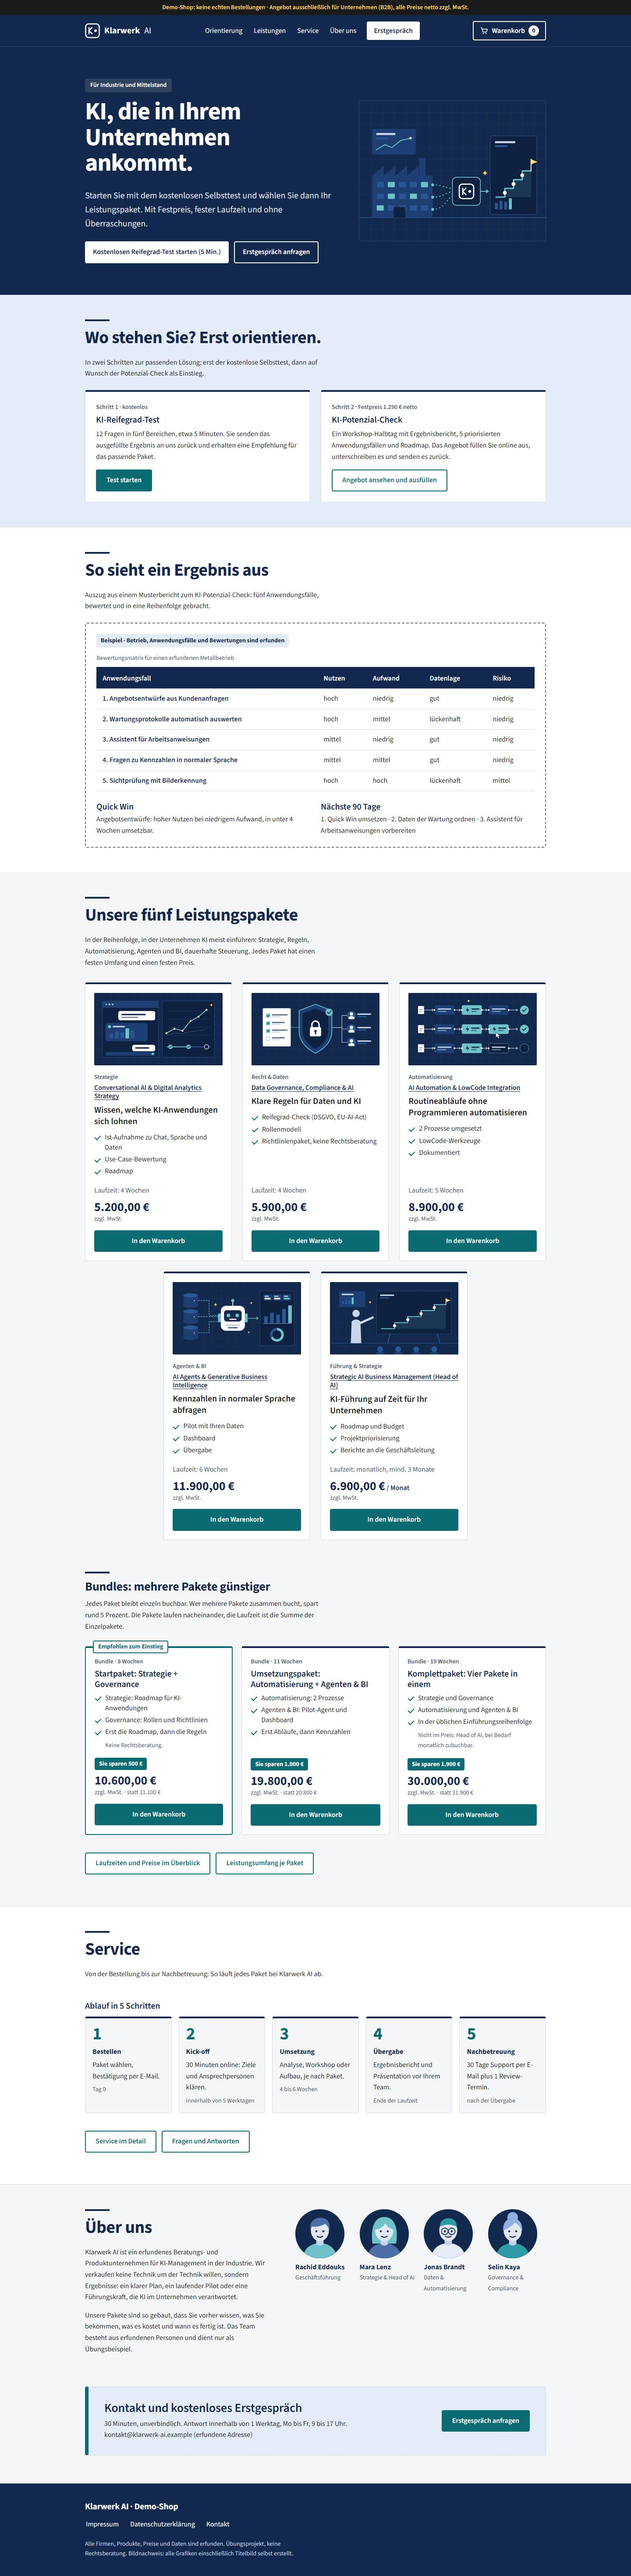
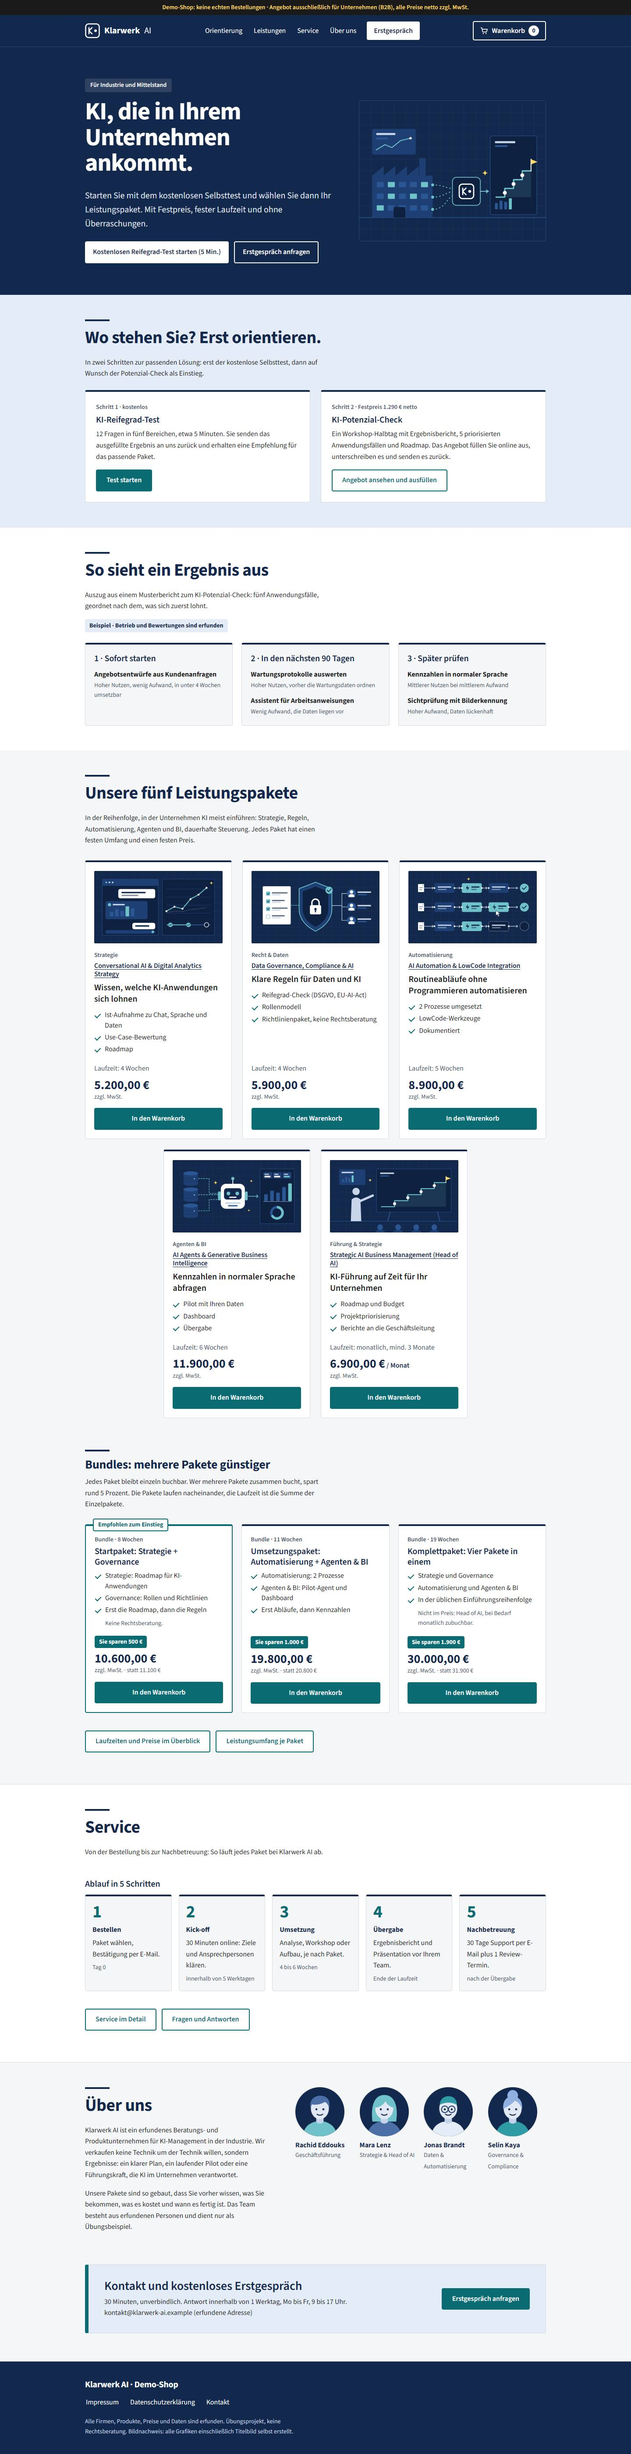
Beispielergebnis als Prioritätenliste statt Tabelle
- Startseite: Bewertungstabelle im gestrichelten Rahmen ersetzt durch
  drei Karten (Sofort starten, In den nächsten 90 Tagen, Später prüfen)
- CSS: .prioritaet neu, .muster und .muster-fazit entfernt
- Designsystem und Entscheidungsprotokoll ergänzt
- vorschau/: Startseiten-Screenshots erneuert

diff --git a/website/index.html b/website/index.html
@@ -79,30 +79,30 @@
     <section class="beispiel" id="beispiel" aria-labelledby="beispiel-titel">
       <div class="wrap">
         <h2 id="beispiel-titel">So sieht ein Ergebnis aus</h2>
-        <p>Auszug aus einem Musterbericht zum KI-Potenzial-Check: fünf Anwendungsfälle, bewertet und in eine Reihenfolge gebracht.</p>
-        <div class="muster">
-          <p class="muster-marke">Beispiel · Betrieb, Anwendungsfälle und Bewertungen sind erfunden</p>
-          <details class="mehr">
-            <summary>Musterbericht anzeigen</summary>
-            <div class="muster-inhalt">
-              <table class="tabelle karten-tabelle" role="table">
-                <caption>Bewertungsmatrix für einen erfundenen Metallbetrieb</caption>
-                <thead role="rowgroup"><tr role="row"><th scope="col" role="columnheader">Anwendungsfall</th><th scope="col" role="columnheader">Nutzen</th><th scope="col" role="columnheader">Aufwand</th><th scope="col" role="columnheader">Datenlage</th><th scope="col" role="columnheader">Risiko</th></tr></thead>
-                <tbody role="rowgroup">
-                <tr role="row"><th scope="row" role="rowheader">1. Angebotsentwürfe aus Kundenanfragen</th><td role="cell" data-label="Nutzen">hoch</td><td role="cell" data-label="Aufwand">niedrig</td><td role="cell" data-label="Datenlage">gut</td><td role="cell" data-label="Risiko">niedrig</td></tr>
-                <tr role="row"><th scope="row" role="rowheader">2. Wartungsprotokolle automatisch auswerten</th><td role="cell" data-label="Nutzen">hoch</td><td role="cell" data-label="Aufwand">mittel</td><td role="cell" data-label="Datenlage">lückenhaft</td><td role="cell" data-label="Risiko">niedrig</td></tr>
-                <tr role="row"><th scope="row" role="rowheader">3. Assistent für Arbeitsanweisungen</th><td role="cell" data-label="Nutzen">mittel</td><td role="cell" data-label="Aufwand">niedrig</td><td role="cell" data-label="Datenlage">gut</td><td role="cell" data-label="Risiko">niedrig</td></tr>
-                <tr role="row"><th scope="row" role="rowheader">4. Fragen zu Kennzahlen in normaler Sprache</th><td role="cell" data-label="Nutzen">mittel</td><td role="cell" data-label="Aufwand">mittel</td><td role="cell" data-label="Datenlage">gut</td><td role="cell" data-label="Risiko">niedrig</td></tr>
-                <tr role="row"><th scope="row" role="rowheader">5. Sichtprüfung mit Bilderkennung</th><td role="cell" data-label="Nutzen">hoch</td><td role="cell" data-label="Aufwand">hoch</td><td role="cell" data-label="Datenlage">lückenhaft</td><td role="cell" data-label="Risiko">mittel</td></tr>
-                </tbody>
-              </table>
-              <div class="muster-fazit">
-                <div><h3>Quick Win</h3><p>Angebotsentwürfe: hoher Nutzen bei niedrigem Aufwand, in unter 4 Wochen umsetzbar.</p></div>
-                <div><h3>Nächste 90 Tage</h3><p>1. Quick Win umsetzen · 2. Daten der Wartung ordnen · 3. Assistent für Arbeitsanweisungen vorbereiten</p></div>
-              </div>
-            </div>
-          </details>
-        </div>
+        <p>Auszug aus einem Musterbericht zum KI-Potenzial-Check: fünf Anwendungsfälle, geordnet nach dem, was sich zuerst lohnt.</p>
+        <p class="muster-marke">Beispiel · Betrieb und Bewertungen sind erfunden</p>
+        <ol class="prioritaet">
+          <li>
+            <h3>Sofort starten</h3>
+            <ul>
+              <li><strong>Angebotsentwürfe aus Kundenanfragen</strong><span>Hoher Nutzen, wenig Aufwand, in unter 4 Wochen umsetzbar</span></li>
+            </ul>
+          </li>
+          <li>
+            <h3>In den nächsten 90 Tagen</h3>
+            <ul>
+              <li><strong>Wartungsprotokolle auswerten</strong><span>Hoher Nutzen, vorher die Wartungsdaten ordnen</span></li>
+              <li><strong>Assistent für Arbeitsanweisungen</strong><span>Wenig Aufwand, die Daten liegen vor</span></li>
+            </ul>
+          </li>
+          <li>
+            <h3>Später prüfen</h3>
+            <ul>
+              <li><strong>Kennzahlen in normaler Sprache</strong><span>Mittlerer Nutzen bei mittlerem Aufwand</span></li>
+              <li><strong>Sichtprüfung mit Bilderkennung</strong><span>Hoher Aufwand, Daten lückenhaft</span></li>
+            </ul>
+          </li>
+        </ol>
       </div>
     </section>
 

diff --git a/website/css/klarwerk.css b/website/css/klarwerk.css
@@ -749,15 +749,19 @@
     .empfehlung { position: absolute; top: -17px; left: 16px; margin: 0; background: var(--weiss); color: var(--aktion); border: 2px solid var(--aktion); border-radius: var(--radius); font-size: 14px; font-weight: 700; line-height: 1.5; padding: 2px 10px; }
     .bundles { margin-top: 32px; }
 
-    /* Punkt 11 · Beispielergebnis */
+    /* Punkt 11 · Beispielergebnis als Prioritätenliste: drei Stufen, nach Reihenfolge geordnet (seit 26.11.2026 statt Tabelle) */
     .beispiel { background: var(--weiss); }
     .beispiel h2::before { content: ""; display: block; width: 56px; height: 4px; background: var(--marke); margin-bottom: 14px; }
-    .muster { border: 2px dashed #6B7685; border-radius: var(--radius); padding: 24px; margin-top: 24px; }
-    .muster-marke { font-size: 14px; font-weight: 700; color: var(--marke); background: #E4ECF7; display: inline-block; padding: 4px 10px; border-radius: var(--radius); }
-    .muster details.mehr { margin: 0; }
-    .muster-fazit { display: grid; grid-template-columns: 1fr 1fr; gap: 24px; margin-top: 24px; }
-    .muster-fazit h3 { font-size: 20px; margin-bottom: 4px; }
-    .muster-fazit p { margin: 0; }
+    .muster-marke { font-size: 14px; font-weight: 700; color: var(--marke); background: #E4ECF7; display: inline-block; padding: 4px 10px; border-radius: var(--radius); margin: 0; }
+    .prioritaet { list-style: none; counter-reset: stufe; margin: 24px 0 0; padding: 0; display: grid; grid-template-columns: repeat(3, minmax(0, 1fr)); gap: 20px; }
+    .prioritaet > li { counter-increment: stufe; background: var(--flaeche); border: 1px solid var(--linie); border-top: 4px solid var(--marke); border-radius: var(--radius); padding: 20px; }
+    .prioritaet h3 { font-size: 20px; margin-bottom: 12px; }
+    .prioritaet h3::before { content: counter(stufe) " · "; }
+    .prioritaet ul { list-style: none; margin: 0; padding: 0; }
+    .prioritaet ul li + li { margin-top: 12px; }
+    .prioritaet strong { display: block; color: var(--text); }
+    .prioritaet span { display: block; font-size: 14px; color: var(--text-leise); }
+    @media (max-width: 860px) { .prioritaet { grid-template-columns: minmax(0, 1fr); gap: 12px; } }
 
     /* Punkt 5 · Tabellen werden am Handy zu Karten */
     @media (max-width: 700px) {
@@ -836,9 +840,6 @@
     }
 
     /* Punkt 4 · Handy: kompakt */
-    @media (max-width: 860px) {
-      .muster-fazit { grid-template-columns: 1fr; gap: 12px; }
-    }
     @media (max-width: 560px) {
       h1, .start h1 { font-size: 40px; }
       .seite-produkt h1, .seitenband h1, .seite-reifegrad h1, .seite-potenzial h1 { font-size: 28px; }
@@ -853,7 +854,8 @@
       .start img { aspect-ratio: 4 / 3; width: 100%; max-width: 280px; margin: 0 auto; }
       .orient-liste { margin-top: 16px; gap: 12px; }
       .orient-liste li { padding: 16px; }
-      .muster { padding: 16px; margin-top: 16px; }
+      .prioritaet { margin-top: 16px; }
+      .prioritaet > li { padding: 16px; }
 
       .produkte .intro { margin-bottom: 16px; }
       .produkte .raster { gap: 12px; }

diff --git a/docs/Entscheidungsprotokoll.md b/docs/Entscheidungsprotokoll.md
@@ -27,3 +27,4 @@
 | Warenkorb | 26.11.2026: localStorage statt sessionStorage („klarwerk-warenkorb“, nur Kennung und Menge, gespeichert erst beim Klick). Preise nur in der Produktliste in js/app.js (Cent), Anzeige mit Intl.NumberFormat. Warenkorb im Kopf wird Link zu warenkorb.html. Zähler = Summe der Mengen, Head of AI zählt als 1 Artikel. Head of AI: Menge = Monate, Start und Minimum 3. Warenkorb-Seite mit −/+, Entfernen, Zwischensumme, 19 % MwSt. (Cent, kaufmännisch gerundet), Gesamtbetrag und „Demo-Bestellung absenden“ (Bestätigung als Seiteninhalt, leert den Warenkorb). data-name an den Schaltflächen entfernt |
 | Fremde Bilder | 26.11.2026: Pixabay-Original und früheres Titelfoto nach `C:\projekte\klarwerk_ai_privat\` verschoben, in `.gitignore` ausgeschlossen; das öffentliche Repository enthält keine fremden Bilder |
 | Design-Überarbeitung | 26.11.2026: 16 Punkte einzeln per Vorher/Nachher-Bild freigegeben: (1) Test am Handy: Fragen zuerst, Fortschritt (2) eine Knopfregel (3) Paketkarten 3 + 2 mit Nutzenzeile (4) kompakte Startseite am Handy (5) Tabellen am Handy als Karten (6) neue Warenkorb-Rückmeldung (7) kürzerer Startbereich, Hauptknopf Reifegrad-Test (8) Menüknopf „Erstgespräch“, Scroll-Markierung (9) Bundles mit Häkchenliste, Startpaket empfohlen (10) Produktseiten mit Kaufkasten und „Frage zum Paket?“ (11) Beispielergebnis (12) Avatare statt Initialen (13) sechs Schriftgrößen (14) helle Kontaktbox (15) eigene Seiten für Impressum und Datenschutz (16) Warenkorb: Pakete nur einmal, Zusammenfassung als Kasten. Ersetzt die früheren Entscheidungen „fünf Karten in einer Reihe“ und „Team mit Initialen“ |
+| Beispielergebnis | 26.11.2026: Bewertungstabelle (5 Anwendungsfälle × 4 Kriterien) im gestrichelten Rahmen ersetzt durch eine Prioritätenliste in drei Karten (Sofort starten · In den nächsten 90 Tagen · Später prüfen), gleiche Aussage, nach Ergebnis geordnet. Grund: Kunden sehen sofort die Reihenfolge statt einer Datenliste |

diff --git a/docs/Designsystem_Stil-C.md b/docs/Designsystem_Stil-C.md
@@ -30,4 +30,4 @@ Inhaltsbreite 1100 px. Produktkarten: ab 1001 px drei plus zwei, von 861 bis 100
 ## Komponenten
 Demo-Leiste, Kopf mit Warenkorb, Startbereich, Seitenband der Unterseiten (Brotkrumen, h1, Einleitung), Karte, Tabelle, Akkordeon (`details`), Kontaktbox (hellblau mit petrolfarbenem Streifen links), Fußbereich mit Links und Bildnachweis. Seit 26.11.2026 außerdem: Produktseite (Bild und Angaben nebeneinander, drei Abschnitte mit h2-Balken) und Warenkorb-Seite (Artikelzeilen, −/+-Knöpfe 40 × 40 px nur für die Monate von Head of AI, Kasten „Zusammenfassung“ mit Gesamtbetrag 28 px, Link „Weiter ansehen“).
 
-Seit der Design-Überarbeitung (26.11.2026) außerdem: Menüknopf „Erstgespräch“ mit Markierung des aktuellen Abschnitts, Nutzenzeile und Häkchenliste in Paket- und Bundle-Karten, ein empfohlenes Bundle, Beispielergebnis im gestrichelten Rahmen mit Kennzeichnung „erfunden“, Kaufkasten auf Produktseiten, Fortschrittsbalken im Reifegrad-Test, Einblendung mit Link „Zum Warenkorb“ (ab 861 px oben rechts, darunter unten), Preise 28 px, gezeichnete Team-Avatare (statt Initialen).
+Seit der Design-Überarbeitung (26.11.2026) außerdem: Menüknopf „Erstgespräch“ mit Markierung des aktuellen Abschnitts, Nutzenzeile und Häkchenliste in Paket- und Bundle-Karten, ein empfohlenes Bundle, Beispielergebnis als Prioritätenliste (drei Karten „1 · Sofort starten“, „2 · In den nächsten 90 Tagen“, „3 · Später prüfen“, ab 861 px nebeneinander, darunter untereinander) mit Etikett „Beispiel · erfunden“, Kaufkasten auf Produktseiten, Fortschrittsbalken im Reifegrad-Test, Einblendung mit Link „Zum Warenkorb“ (ab 861 px oben rechts, darunter unten), Preise 28 px, gezeichnete Team-Avatare (statt Initialen).
